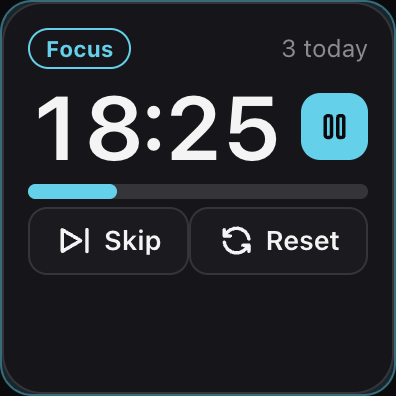
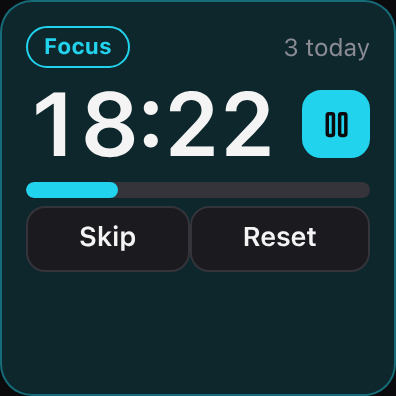
Pomodoro: text-only Skip and Reset, new preview image
With an icon, both labels were shortened on the smallest 2x2 tile.

Refs #4

diff --git a/plugins/pomodoro/src/lib.ts b/plugins/pomodoro/src/lib.ts
@@ -108,8 +108,8 @@ export function buildCard(state: State, days: Days, len: Lengths, now: number) {
       ] },
       { t: "progress", value: Math.round(Math.min(1, Math.max(0, 1 - left / total)) * 1000) / 1000, tone },
       { t: "row", gap: 1, children: [
-        { t: "button", label: "Skip", icon: "player-skip-forward", action: "skip" },
-        { t: "button", label: "Reset", icon: "refresh", action: "reset" },
+        { t: "button", label: "Skip", action: "skip" },
+        { t: "button", label: "Reset", action: "reset" },
       ] },
     ] },
   };
